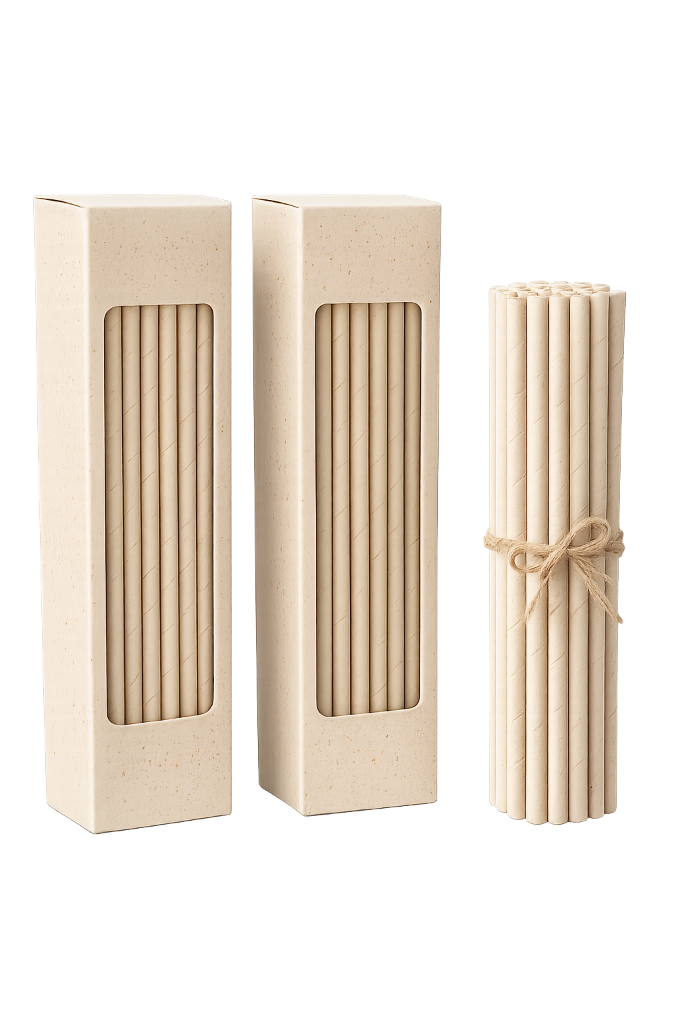
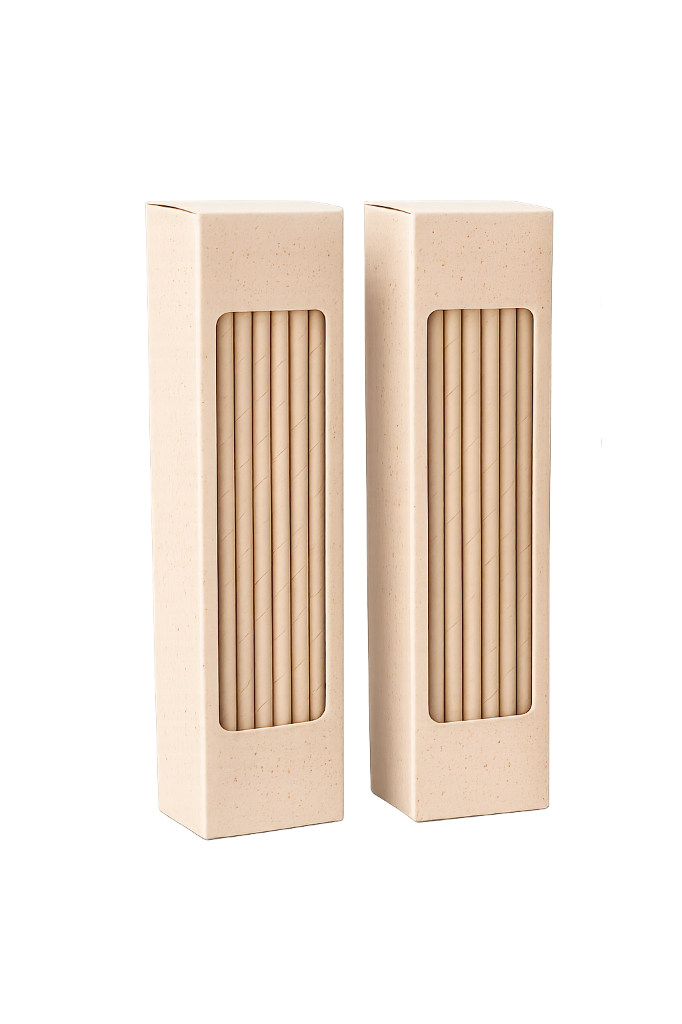
feat: replace straw product image with boxes photo and align IDs spelling to OrizPak

diff --git a/lib/data.ts b/lib/data.ts
@@ -2,8 +2,8 @@ import { Product, Metric, ProcessStep, FAQItem } from '../types';
 
 export const products: Product[] = [
   {
-    id: 'vaso-orizpack',
-    name: 'Vaso OrizPack de 350ml/500ml',
+    id: 'vaso-orizpak',
+    name: 'Vaso OrizPak de 350ml/500ml',
     description: 'Envase térmico rígido de cáscara de arroz. Aislante natural para bebidas calientes y frías sin aditivos químicos.',
     category: 'ECO-PACKAGING',
     material: 'Cáscara de Arroz',
@@ -25,8 +25,8 @@ export const products: Product[] = [
     ]
   },
   {
-    id: 'plato-orizpack',
-    name: 'Plato OrizPack Hondo y Playo',
+    id: 'plato-orizpak',
+    name: 'Plato OrizPak Hondo y Playo',
     description: 'Vajilla de alta densidad mecánica. Rigidez idéntica al plástico inyectado, apto para alimentos calientes y grasas.',
     category: 'ECO-PACKAGING',
     material: 'Cáscara de Arroz',
@@ -49,7 +49,7 @@ export const products: Product[] = [
   },
   {
     id: 'bandeja-compartimentada',
-    name: 'Bandeja Compartimentada OrizPack',
+    name: 'Bandeja Compartimentada OrizPak',
     description: 'Bandeja rígida para logística alimentaria. Mantiene la neutralidad organoléptica del almidón sin condensación.',
     category: 'ECO-PACKAGING',
     material: 'Biocompuesto de Arroz',
@@ -92,8 +92,8 @@ export const products: Product[] = [
     ]
   },
   {
-    id: 'cubiertos-orizpack',
-    name: 'Kit de Cubiertos OrizPack',
+    id: 'cubiertos-orizpak',
+    name: 'Kit de Cubiertos OrizPak',
     description: 'Utensilios rígidos de alto rendimiento. Utensilios mecánicos superiores que no se doblan ante cortes o alimentos densos.',
     category: 'ECO-PACKAGING',
     material: 'Biocompuesto de Arroz',
@@ -114,8 +114,8 @@ export const products: Product[] = [
     ]
   },
   {
-    id: 'sorbetes-orizpack',
-    name: 'Sorbetes OrizPack',
+    id: 'sorbetes-orizpak',
+    name: 'Sorbetes OrizPak',
     description: 'Conducto rígido hidrofóbico de arroz. Mantiene su integridad estructural en líquidos por más de 12 horas.',
     category: 'ECO-PACKAGING',
     material: 'Cáscara de Arroz',
@@ -136,8 +136,8 @@ export const products: Product[] = [
     ]
   },
   {
-    id: 'tapas-orizpack',
-    name: 'Tapas OrizPack',
+    id: 'tapas-orizpak',
+    name: 'Tapas OrizPak',
     description: 'Tapas ecológicas a presión compatibles con vasos OrizPack de 350ml y 500ml. Disponibles en variantes para bebidas calientes (con pico) y bebidas frías (con cruz para sorbete).',
     category: 'ECO-PACKAGING',
     material: 'Biocompuesto de Arroz',